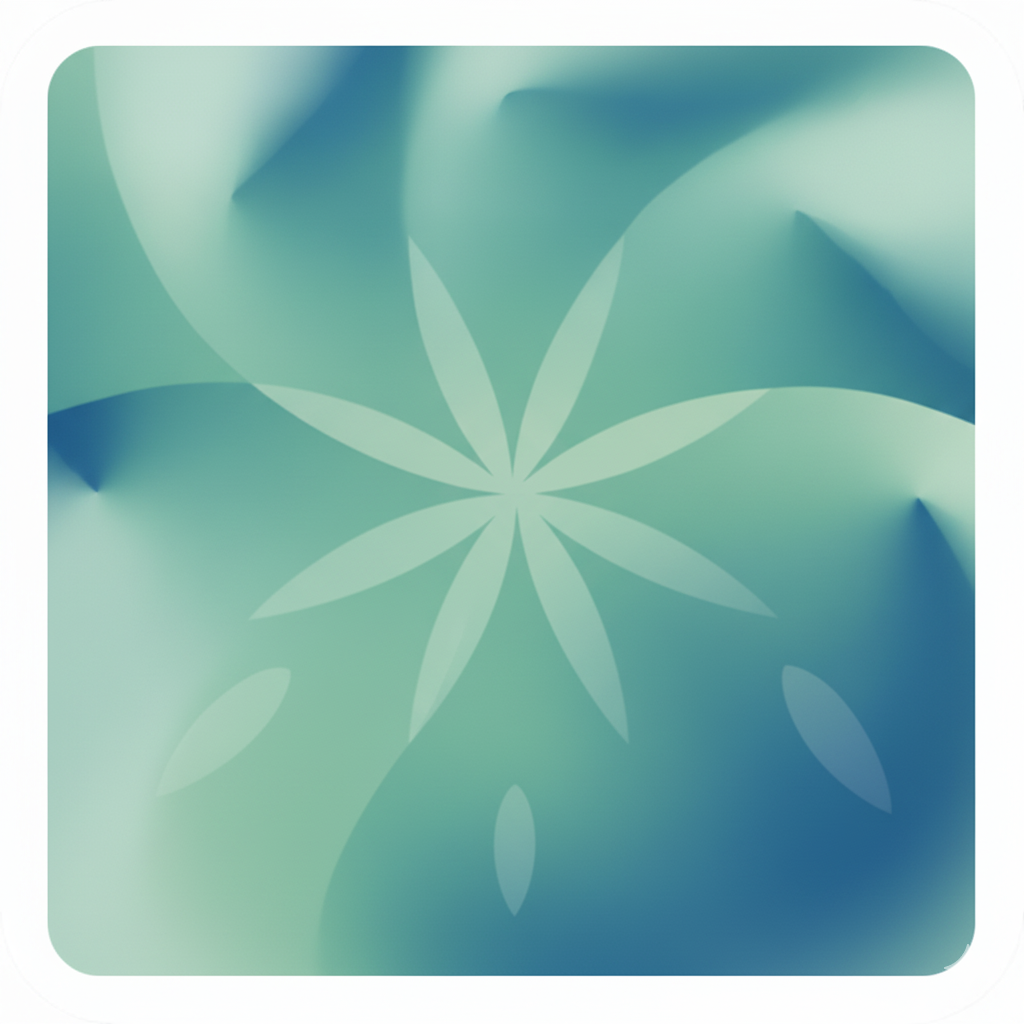
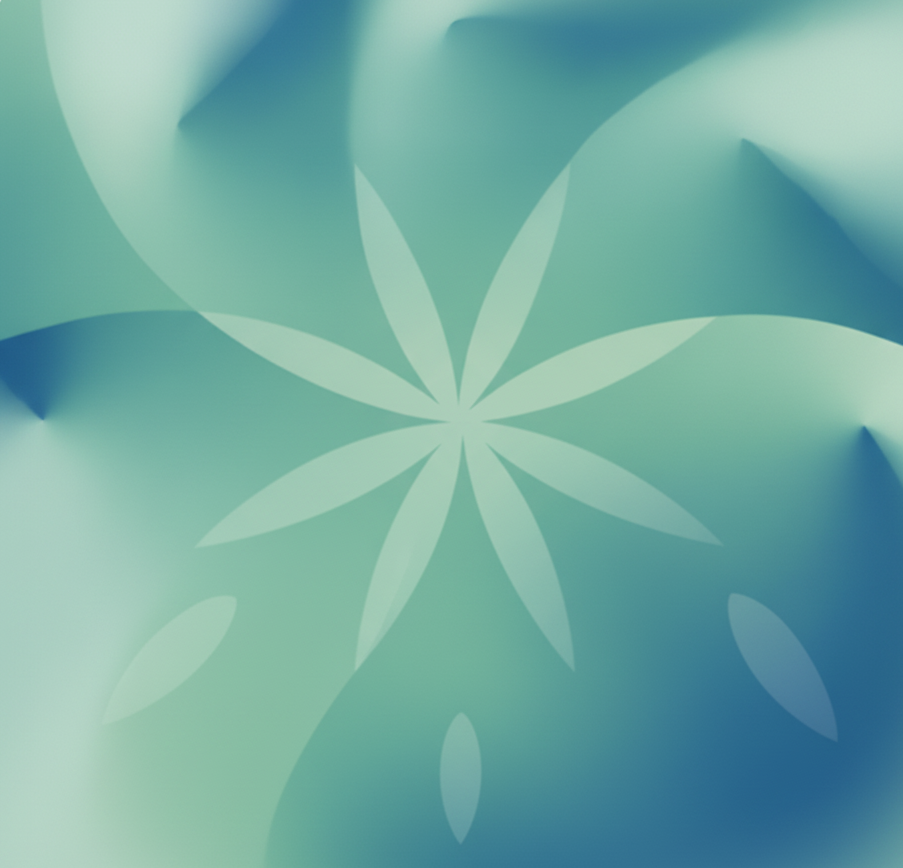
Update homepage & safe-report, added pro-help page, new mood images, and updated assets

diff --git a/mindsphere/app/pro-help.tsx b/mindsphere/app/pro-help.tsx
@@ -1,0 +1,286 @@
+import React from 'react';
+import { 
+  View, 
+  Text, 
+  TouchableOpacity, 
+  StyleSheet, 
+  ScrollView, 
+  Image,
+  Linking
+} from 'react-native';
+import { useRouter } from 'expo-router';
+import BottomNavBar from './components/BottomNavBar';
+
+// ---------- Types ----------
+interface ProfessionalCategory {
+  id: string;
+  title: string;
+  description: string;
+  icon: any;
+  iconBgColor: string;
+  link: string;
+}
+
+export default function ProHelp() {
+  const router = useRouter();
+
+  const categories: ProfessionalCategory[] = [
+    {
+      id: 'mental_health',
+      title: 'Mental Health Support',
+      description: 'Talk to counselors, therapists, or psychologists about anxiety, depression, trauma, or mental health.',
+      icon: require('../assets/images/brain.png'),
+      iconBgColor: '#FDE2E4',
+      link: 'https://mental-health-support.com'
+    },
+    {
+      id: 'medical',
+      title: 'Medical & Wellness',
+      description: 'Connect with doctors or pharmacists for medical advice, wellness checks, and mental care.',
+      icon: require('../assets/images/doctor.png'),
+      iconBgColor: '#DBEAFE',
+      link: 'https://medical-wellness.com'
+    },
+    {
+      id: 'family',
+      title: 'Social & Family Support',
+      description: 'Get guidance from social workers or community counselors on family issues, domestic challenges, or child protection.',
+      icon: require('../assets/images/family.png'),
+      iconBgColor: '#FED7AA',
+      link: 'https://family-support.com'
+    },
+    {
+      id: 'legal',
+      title: 'Safety & Legal Guidance',
+      description: 'Chat with legal experts or legal aid volunteers for help with legal issues, restraining orders, or safety concerns.',
+      icon: require('../assets/images/legal.png'),
+      iconBgColor: '#D1FAE5',
+      link: 'https://legal-guidance.com'
+    },
+  ];
+
+  const handleCategoryPress = (link: string) => {
+    Linking.openURL(link);
+  };
+
+  return (
+    <View style={styles.container}>
+      <ScrollView
+        style={styles.scrollView}
+        contentContainerStyle={[styles.contentContainer, { paddingBottom: 110 }]}
+        showsVerticalScrollIndicator={false}
+      >
+        {/* Header with background image */}
+        <View style={styles.headerBackground}>
+          <Image
+            source={require('../assets/images/spiral-background.png')}
+            style={styles.headerImage}
+            resizeMode="cover"
+          />
+          <Text style={styles.title}>Pro Help</Text>
+        </View>
+
+        {/* Main Content Container with Curve */}
+        <View style={styles.mainContentContainer}>
+          {/* Subtitle */}
+          <Text style={styles.subtitle}>Talk to a Professional!</Text>
+
+          {/* Info Text */}
+          <Text style={styles.infoText}>
+            You are not alone. Choose a category below to connect via chat with someone who can help.
+          </Text>
+
+          {/* Divider Line */}
+          <View style={styles.divider} />
+
+          {/* Categories Section */}
+          <Text style={styles.sectionTitle}>Professionals</Text>
+
+          {/* Category Cards */}
+          <View style={styles.categoriesContainer}>
+            {categories.map((category) => (
+              <TouchableOpacity
+                key={category.id}
+                style={styles.categoryCard}
+                onPress={() => handleCategoryPress(category.link)}
+                activeOpacity={0.7}
+              >
+                <View style={styles.categoryContent}>
+                  <View style={[styles.iconCircle, { backgroundColor: category.iconBgColor }]}>
+                    <Image
+                      source={category.icon}
+                      style={styles.categoryIcon}
+                      resizeMode="contain"
+                    />
+                  </View>
+                  <View style={styles.categoryTextContainer}>
+                    <Text style={styles.categoryTitle}>{category.title}</Text>
+                    <Text style={styles.categoryDescription}>{category.description}</Text>
+                  </View>
+                  <Text style={styles.externalIcon}>↗</Text>
+                </View>
+              </TouchableOpacity>
+            ))}
+          </View>
+
+          {/* Privacy Notice */}
+          <View style={styles.privacyNotice}>
+            <Text style={styles.privacyText}>
+              Your identity remains private. You only share what you want
+            </Text>
+          </View>
+        </View>
+      </ScrollView>
+
+      {/* Bottom Navigation Bar */}
+      <BottomNavBar />
+    </View>
+  );
+}
+
+// ---------- Styles ----------
+const styles = StyleSheet.create({
+  container: { 
+    flex: 1, 
+    backgroundColor: '#ffffff'
+  },
+  scrollView: { 
+    flex: 1 
+  },
+  contentContainer: { 
+    paddingTop: 0,
+  },
+
+  headerBackground: {
+    width: '100%',
+    height: 140,
+    justifyContent: 'center',
+    alignItems: 'center',
+    marginBottom: 0,
+    position: 'relative',
+  },
+  headerImage: {
+    position: 'absolute',
+    width: '100%',
+    height: '100%',
+    borderBottomLeftRadius: 30,  
+    borderBottomRightRadius: 30,
+  },
+  title: {
+    fontSize: 32,
+    fontWeight: '700',
+    color: '#ffffff',
+    textAlign: 'center',
+    zIndex: 1,
+  },
+
+  mainContentContainer: {
+    backgroundColor: '#ffffff',
+    paddingTop: 24,
+    paddingHorizontal: 20,
+    marginTop: 0,
+  },
+
+  subtitle: {
+    fontSize: 18,
+    fontWeight: '700',
+    color: '#0891B2',
+    marginBottom: 12,
+  },
+
+  infoText: {
+    fontSize: 14,
+    color: '#000000',
+    lineHeight: 20,
+    marginBottom: 20,
+  },
+
+  divider: {
+    height: 1,
+    backgroundColor: '#E5E7EB',
+    marginBottom: 20,
+  },
+
+  sectionTitle: {
+    fontSize: 16,
+    fontWeight: '700',
+    color: '#000000',
+    marginBottom: 16,
+  },
+
+  categoriesContainer: {
+    gap: 16,
+    marginBottom: 24,
+  },
+
+  categoryCard: {
+    backgroundColor: '#ffffff',
+    borderRadius: 16,
+    borderWidth: 1,
+    borderColor: '#E5E7EB',
+    shadowColor: '#000',
+    shadowOffset: { width: 0, height: 2 },
+    shadowOpacity: 0.08,
+    shadowRadius: 4,
+    elevation: 3,
+  },
+
+  categoryContent: {
+    flexDirection: 'row',
+    alignItems: 'center',
+    padding: 16,
+  },
+
+  iconCircle: {
+    width: 56,
+    height: 56,
+    borderRadius: 28,
+    alignItems: 'center',
+    justifyContent: 'center',
+    marginRight: 12,
+  },
+
+  categoryIcon: {
+    width: 32,
+    height: 32,
+  },
+
+  categoryTextContainer: {
+    flex: 1,
+    marginRight: 8,
+  },
+
+  categoryTitle: {
+    fontSize: 15,
+    fontWeight: '700',
+    color: '#000000',
+    marginBottom: 4,
+  },
+
+  categoryDescription: {
+    fontSize: 12,
+    color: '#6B7280',
+    lineHeight: 16,
+  },
+
+  externalIcon: {
+    fontSize: 24,
+    color: '#666',
+    fontWeight: '600',
+  },
+
+  privacyNotice: {
+    backgroundColor: '#F9FAFB',
+    borderRadius: 12,
+    padding: 16,
+    marginBottom: 20,
+  },
+
+  privacyText: {
+    fontSize: 13,
+    color: '#6B7280',
+    textAlign: 'center',
+    fontStyle: 'italic',
+    lineHeight: 18,
+  },
+});
